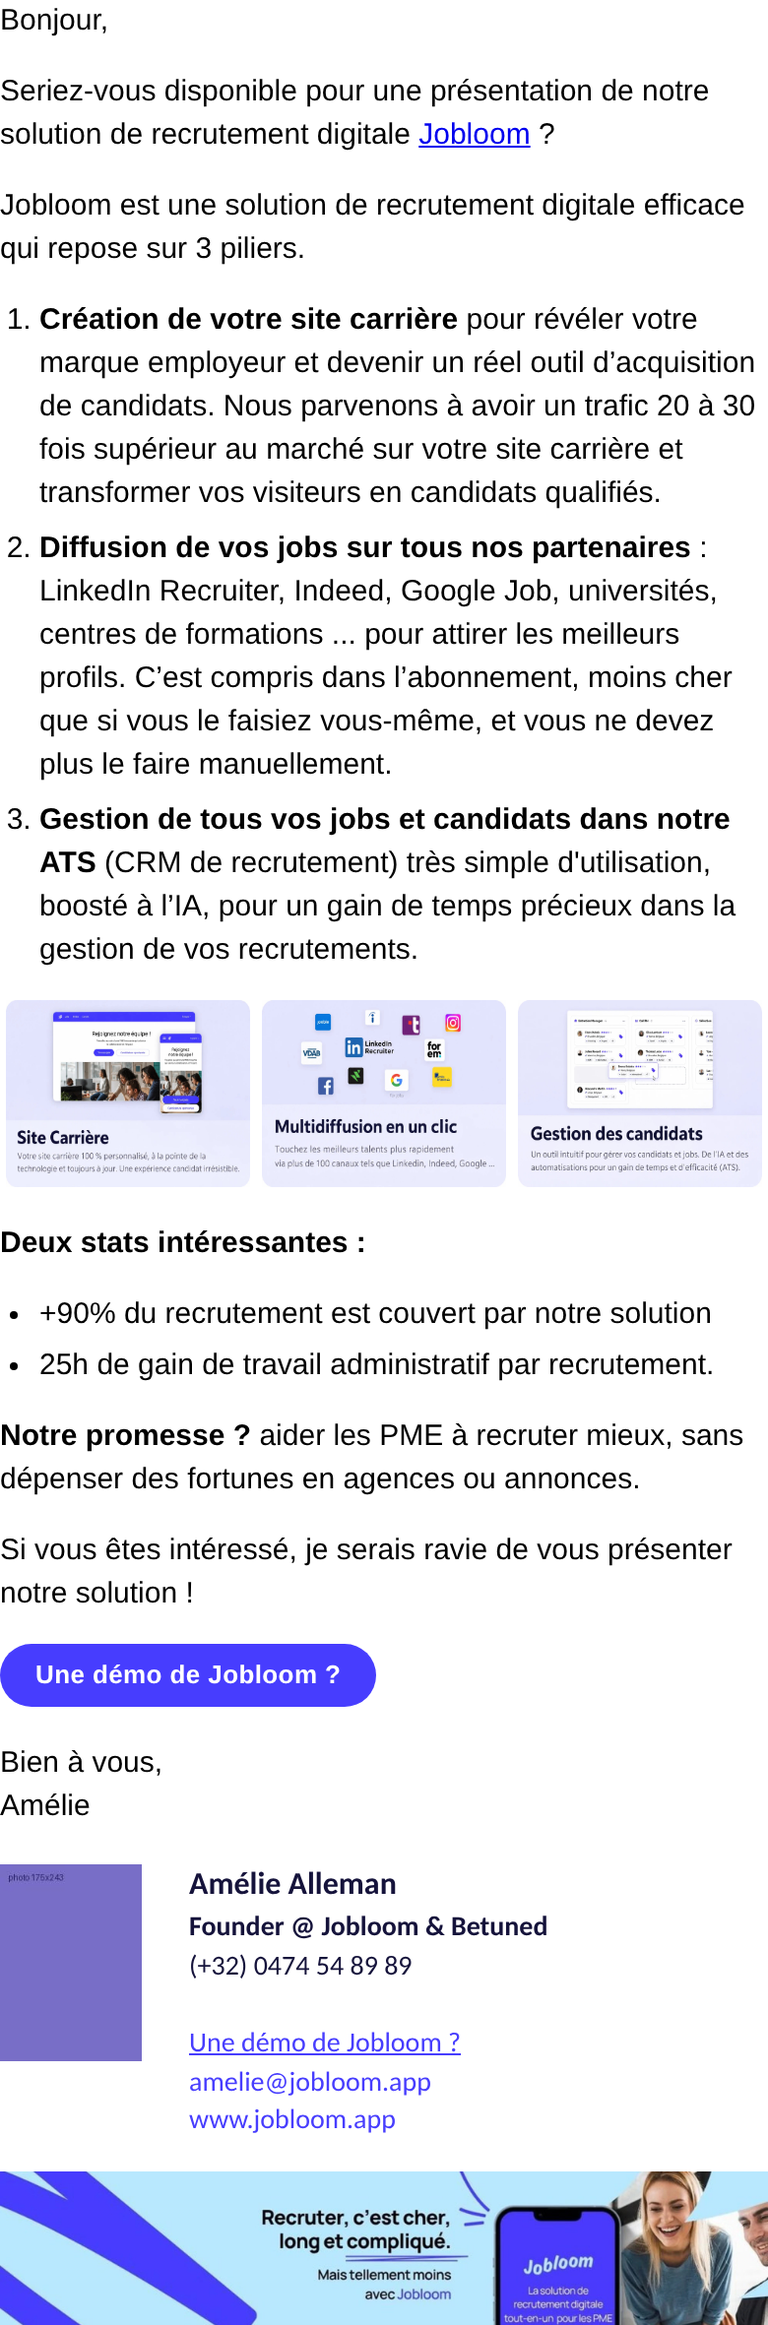
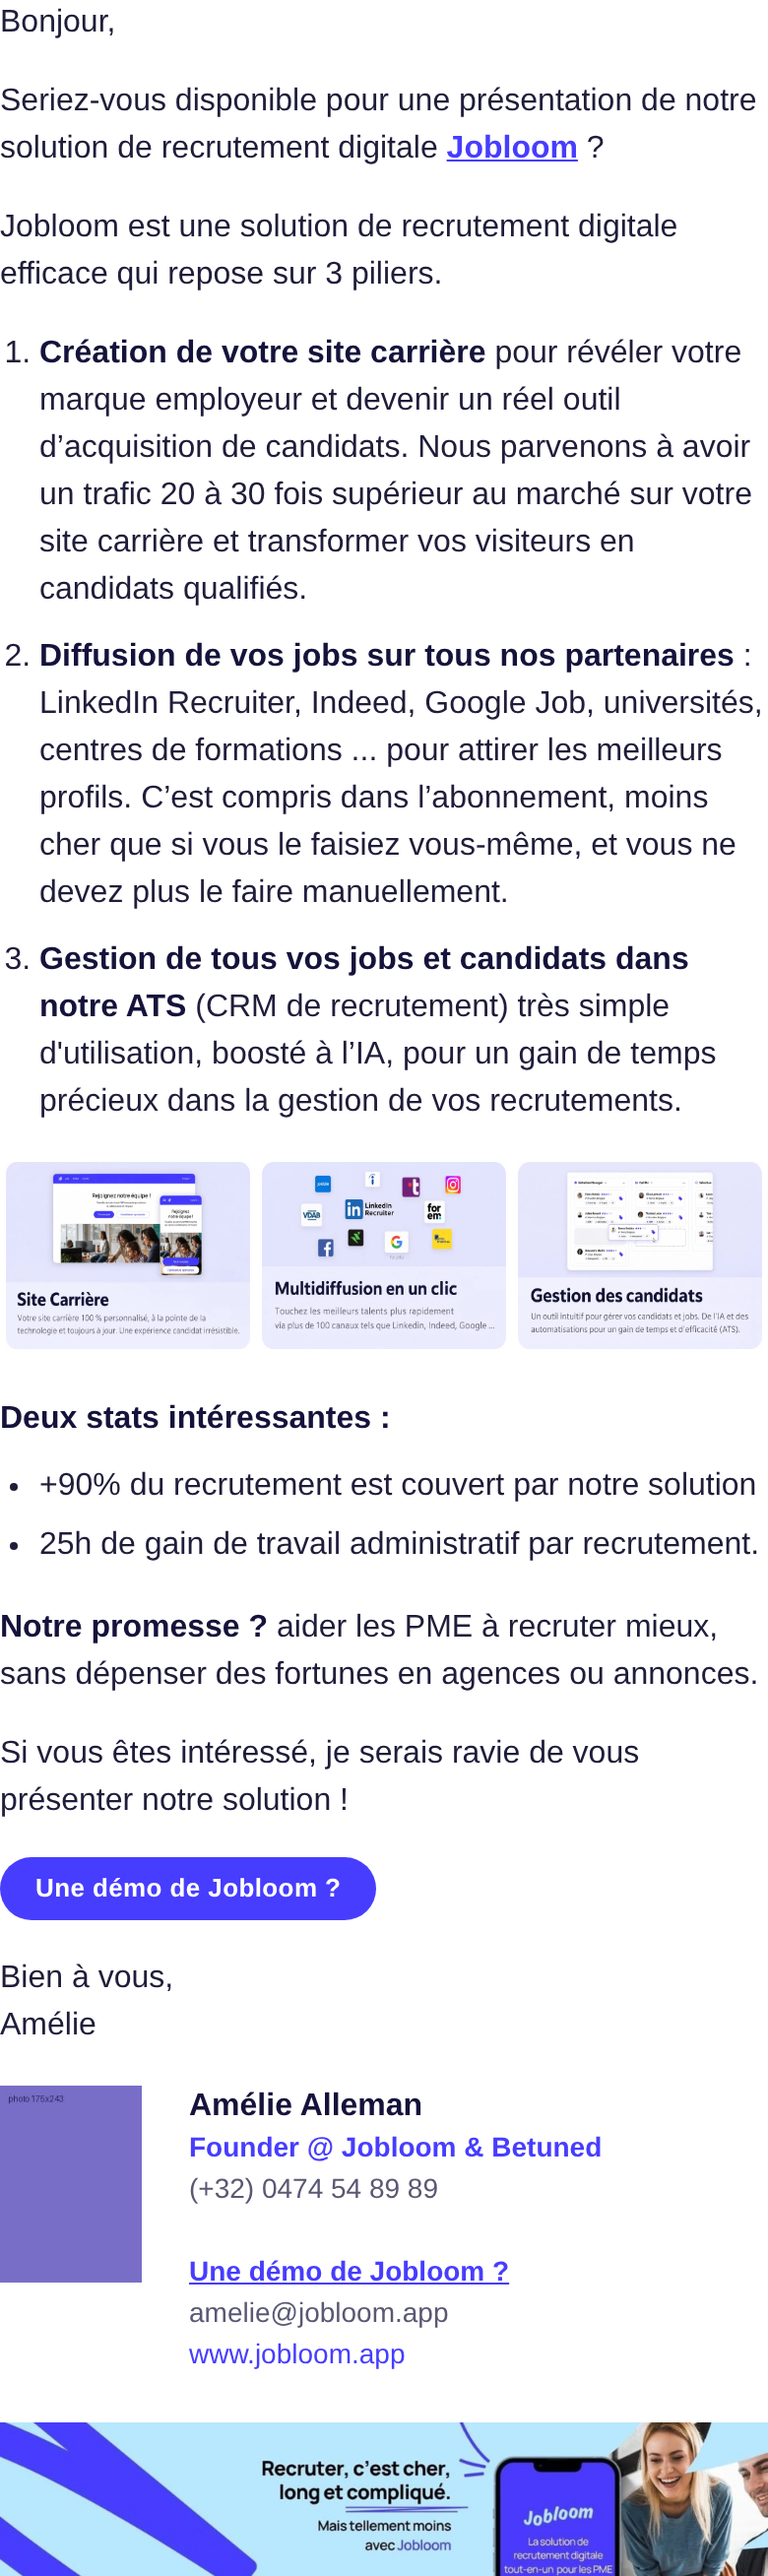
Email Amélie : typographie et espacements affinés
Claude-Session: https://claude.ai/code/session_01XTeiUwKp5X2MxE8FSKHjU9

Changed region(s): [[0.0, 0.0, 1.0, 0.8345], [0.0, 0.8036, 1.0, 1.0], [0.3077, 0.989, 0.3385, 1.0]]

diff --git a/email-livrable/email_1st_Amelie_final.html b/email-livrable/email_1st_Amelie_final.html
@@ -17,7 +17,7 @@ li{margin-left:0 !important;}</style>
 <style>
 @media only screen and (max-width:820px){
   .wrap{padding:0 !important;}
-  .txt{font-size:15px !important;line-height:22px !important;}
+  .txt{font-size:16px !important;line-height:24px !important;}
   .list{padding-left:20px !important;}
   .cards{width:100% !important;}
   .cardtd{padding:0 3px !important;}
@@ -31,24 +31,24 @@ li{margin-left:0 !important;}</style>
 <table role="presentation" cellpadding="0" cellspacing="0" border="0" width="100%" style="border-collapse:collapse;width:100%">
 <tr><td class="wrap" align="center" style="padding:0">
 <!--[if mso]><table role="presentation" width="800" cellpadding="0" cellspacing="0" border="0" align="center"><tr><td><![endif]-->
-<div class="txt" style="width:100%;max-width:1000px;margin:0 auto;text-align:left;font-family:Arial,Helvetica,sans-serif;font-size:14px;line-height:20px;mso-line-height-rule:exactly;color:#000000">
+<div class="txt" style="width:100%;max-width:1000px;margin:0 auto;text-align:left;font-family:Arial,Helvetica,sans-serif;font-size:15px;line-height:23px;mso-line-height-rule:exactly;color:#1F1D3A">
 
-<p style="margin:0 0 14px 0">Bonjour,</p>
-<p style="margin:0 0 14px 0">Seriez-vous disponible pour une présentation de notre solution de recrutement digitale <a href="https://www.jobloom.be/">Jobloom</a>&nbsp;?</p>
-<p style="margin:0 0 14px 0">Jobloom est une solution de recrutement digitale efficace qui repose sur 3 piliers.</p>
-<ol class="list" style="margin:0 0 14px 0;padding-left:28px">
-<li style="margin:0 0 6px 0"><b>Création de votre site carrière</b> pour révéler votre marque employeur et devenir un réel outil d’acquisition de candidats. Nous parvenons à avoir un trafic 20 à 30 fois supérieur au marché sur votre site carrière et transformer vos visiteurs en candidats qualifiés.</li>
-<li style="margin:0 0 6px 0"><b>Diffusion de vos jobs sur tous nos partenaires&nbsp;</b>: LinkedIn Recruiter, Indeed, Google Job, universités, centres de formations ... pour attirer les meilleurs profils. C’est compris dans l’abonnement, moins cher que si vous le faisiez vous-même, et vous ne devez plus le faire manuellement.</li>
-<li style="margin:0"><b>Gestion de tous vos jobs et candidats dans notre ATS</b> (CRM de recrutement) très simple d'utilisation, boosté à l’IA, pour un gain de temps précieux dans la gestion de vos recrutements.</li>
+<p style="margin:0 0 16px 0">Bonjour,</p>
+<p style="margin:0 0 16px 0">Seriez-vous disponible pour une présentation de notre solution de recrutement digitale <a href="https://www.jobloom.be/" style="color:#473DFE;font-weight:bold;text-decoration:underline">Jobloom</a>&nbsp;?</p>
+<p style="margin:0 0 16px 0">Jobloom est une solution de recrutement digitale efficace qui repose sur 3 piliers.</p>
+<ol class="list" style="margin:0 0 18px 0;padding-left:28px">
+<li style="margin:0 0 10px 0"><b style="color:#15133B">Création de votre site carrière</b> pour révéler votre marque employeur et devenir un réel outil d’acquisition de candidats. Nous parvenons à avoir un trafic 20 à 30 fois supérieur au marché sur votre site carrière et transformer vos visiteurs en candidats qualifiés.</li>
+<li style="margin:0 0 10px 0"><b style="color:#15133B">Diffusion de vos jobs sur tous nos partenaires&nbsp;</b>: LinkedIn Recruiter, Indeed, Google Job, universités, centres de formations ... pour attirer les meilleurs profils. C’est compris dans l’abonnement, moins cher que si vous le faisiez vous-même, et vous ne devez plus le faire manuellement.</li>
+<li style="margin:0"><b style="color:#15133B">Gestion de tous vos jobs et candidats dans notre ATS</b> (CRM de recrutement) très simple d'utilisation, boosté à l’IA, pour un gain de temps précieux dans la gestion de vos recrutements.</li>
 </ol>
-<table role="presentation" class="cards" cellpadding="0" cellspacing="0" border="0" width="92%" align="center" style="border-collapse:collapse;width:92%;margin:4px auto 18px auto"><tr><td class="cardtd" width="33%" valign="top" style="width:33.33%;padding:0 8px 0 0"><a href="https://www.jobloom.app/" style="text-decoration:none"><!--[if mso]><img src="https://jobloom-landing-pages-massimoharnisfeger-hues-projects.vercel.app/signature/pilier-1.jpg" width="258" height="172" alt="Site Carrière" style="display:block;width:258px;height:172px;border:0"><![endif]--><!--[if !mso]><!--><img src="https://jobloom-landing-pages-massimoharnisfeger-hues-projects.vercel.app/signature/pilier-1.jpg" width="1536" height="1024" alt="Site Carrière" style="display:block;width:100%;max-width:512px;height:auto;border:0"><!--<![endif]--></a></td><td class="cardtd" width="33%" valign="top" style="width:33.33%;padding:0 4px"><a href="https://www.jobloom.app/" style="text-decoration:none"><!--[if mso]><img src="https://jobloom-landing-pages-massimoharnisfeger-hues-projects.vercel.app/signature/pilier-2.jpg" width="258" height="172" alt="Multidiffusion en un clic" style="display:block;width:258px;height:172px;border:0"><![endif]--><!--[if !mso]><!--><img src="https://jobloom-landing-pages-massimoharnisfeger-hues-projects.vercel.app/signature/pilier-2.jpg" width="1536" height="1024" alt="Multidiffusion en un clic" style="display:block;width:100%;max-width:512px;height:auto;border:0"><!--<![endif]--></a></td><td class="cardtd" width="33%" valign="top" style="width:33.33%;padding:0 0 0 8px"><a href="https://www.jobloom.app/" style="text-decoration:none"><!--[if mso]><img src="https://jobloom-landing-pages-massimoharnisfeger-hues-projects.vercel.app/signature/pilier-3.jpg" width="258" height="172" alt="Gestion des candidats" style="display:block;width:258px;height:172px;border:0"><![endif]--><!--[if !mso]><!--><img src="https://jobloom-landing-pages-massimoharnisfeger-hues-projects.vercel.app/signature/pilier-3.jpg" width="1536" height="1024" alt="Gestion des candidats" style="display:block;width:100%;max-width:512px;height:auto;border:0"><!--<![endif]--></a></td></tr></table>
-<p style="margin:0 0 14px 0"><b>Deux stats intéressantes&nbsp;:</b></p>
-<ul class="list" style="margin:0 0 14px 0;padding-left:28px">
-<li style="margin:0 0 4px 0">+90% du recrutement est couvert par notre solution</li>
+<table role="presentation" class="cards" cellpadding="0" cellspacing="0" border="0" width="92%" align="center" style="border-collapse:collapse;width:92%;margin:8px auto 24px auto"><tr><td class="cardtd" width="33%" valign="top" style="width:33.33%;padding:0 8px 0 0"><a href="https://www.jobloom.app/" style="text-decoration:none"><!--[if mso]><img src="https://jobloom-landing-pages-massimoharnisfeger-hues-projects.vercel.app/signature/pilier-1.jpg" width="258" height="172" alt="Site Carrière" style="display:block;width:258px;height:172px;border:0"><![endif]--><!--[if !mso]><!--><img src="https://jobloom-landing-pages-massimoharnisfeger-hues-projects.vercel.app/signature/pilier-1.jpg" width="1536" height="1024" alt="Site Carrière" style="display:block;width:100%;max-width:512px;height:auto;border:0"><!--<![endif]--></a></td><td class="cardtd" width="33%" valign="top" style="width:33.33%;padding:0 4px"><a href="https://www.jobloom.app/" style="text-decoration:none"><!--[if mso]><img src="https://jobloom-landing-pages-massimoharnisfeger-hues-projects.vercel.app/signature/pilier-2.jpg" width="258" height="172" alt="Multidiffusion en un clic" style="display:block;width:258px;height:172px;border:0"><![endif]--><!--[if !mso]><!--><img src="https://jobloom-landing-pages-massimoharnisfeger-hues-projects.vercel.app/signature/pilier-2.jpg" width="1536" height="1024" alt="Multidiffusion en un clic" style="display:block;width:100%;max-width:512px;height:auto;border:0"><!--<![endif]--></a></td><td class="cardtd" width="33%" valign="top" style="width:33.33%;padding:0 0 0 8px"><a href="https://www.jobloom.app/" style="text-decoration:none"><!--[if mso]><img src="https://jobloom-landing-pages-massimoharnisfeger-hues-projects.vercel.app/signature/pilier-3.jpg" width="258" height="172" alt="Gestion des candidats" style="display:block;width:258px;height:172px;border:0"><![endif]--><!--[if !mso]><!--><img src="https://jobloom-landing-pages-massimoharnisfeger-hues-projects.vercel.app/signature/pilier-3.jpg" width="1536" height="1024" alt="Gestion des candidats" style="display:block;width:100%;max-width:512px;height:auto;border:0"><!--<![endif]--></a></td></tr></table>
+<p style="margin:0 0 10px 0;font-size:16px"><b style="color:#15133B">Deux stats intéressantes&nbsp;:</b></p>
+<ul class="list" style="margin:0 0 18px 0;padding-left:28px">
+<li style="margin:0 0 6px 0">+90% du recrutement est couvert par notre solution</li>
 <li style="margin:0">25h de gain de travail administratif par recrutement.</li>
 </ul>
-<p style="margin:0 0 14px 0"><b>Notre promesse&nbsp;?</b> aider les PME à recruter mieux, sans dépenser des fortunes en agences ou annonces.</p>
-<p style="margin:0 0 14px 0">Si vous êtes intéressé, je serais ravie de vous présenter notre solution&nbsp;!</p>
+<p style="margin:0 0 16px 0"><b style="color:#15133B">Notre promesse&nbsp;?</b> aider les PME à recruter mieux, sans dépenser des fortunes en agences ou annonces.</p>
+<p style="margin:0 0 16px 0">Si vous êtes intéressé, je serais ravie de vous présenter notre solution&nbsp;!</p>
 <!--[if mso]>
 <table role="presentation" cellpadding="0" cellspacing="0" border="0"><tr><td style="padding:0 0 18px 0">
 <v:roundrect xmlns:v="urn:schemas-microsoft-com:vml" xmlns:w="urn:schemas-microsoft-com:office:word" href="https://calendly.com/amelie-betuned" style="height:32px;v-text-anchor:middle;width:180px" arcsize="50%" stroke="f" fillcolor="#473DFE"><w:anchorlock/><center style="color:#FFFFFF;font-family:Arial,Helvetica,sans-serif;font-size:13px;font-weight:bold">Une démo de Jobloom ?</center></v:roundrect>
@@ -61,20 +61,20 @@ li{margin-left:0 !important;}</style>
 <!--<![endif]-->
 <p style="margin:0 0 18px 0">Bien à vous,<br>Amélie</p>
 
-<table role="presentation" cellpadding="0" cellspacing="0" border="0" style="border-collapse:collapse;font-family:Calibri,Arial,sans-serif;font-size:14px;line-height:1.4;color:#15133B">
+<table role="presentation" cellpadding="0" cellspacing="0" border="0" style="border-collapse:collapse;font-family:Arial,Helvetica,sans-serif;font-size:14px;line-height:21px;mso-line-height-rule:exactly;color:#5A5873">
 <tr>
 <td class="sig-photo" valign="top" width="116" style="width:116px;padding:0 16px 0 0"><img src="https://jobloom-landing-pages-massimoharnisfeger-hues-projects.vercel.app/signature/amelie-alleman.jpg" width="100" height="139" alt="Amélie Alleman" class="sig-img" style="display:block;width:100px;height:139px;border:0"></td>
 <td valign="top" style="padding:0">
 <b style="font-size:16px;color:#15133B">Amélie Alleman</b><br>
-<b style="color:#15133B">Founder @ Jobloom &amp; Betuned</b><br>
-<span style="color:#15133B">(+32) 0474 54 89 89</span><br><br>
-<a href="https://calendly.com/amelie-betuned" style="color:#473DFE;text-decoration:underline">Une démo de Jobloom ?</a><br>
-<a href="mailto:amelie@jobloom.app" style="color:#473DFE;text-decoration:none">amelie@jobloom.app</a><br>
+<span style="color:#473DFE;font-weight:bold">Founder @ Jobloom &amp; Betuned</span><br>
+<span style="color:#5A5873">(+32) 0474 54 89 89</span><br><br>
+<a href="https://calendly.com/amelie-betuned" style="color:#473DFE;font-weight:bold;text-decoration:underline">Une démo de Jobloom ?</a><br>
+<a href="mailto:amelie@jobloom.app" style="color:#5A5873;text-decoration:none">amelie@jobloom.app</a><br>
 <a href="https://www.jobloom.app" style="color:#473DFE;text-decoration:none">www.jobloom.app</a>
 </td>
 </tr>
 </table>
-<table role="presentation" cellpadding="0" cellspacing="0" border="0" width="100%" style="border-collapse:collapse;width:100%;margin:16px 0 0 0"><tr><td align="center" style="padding:0"><a href="https://www.jobloom.app/agenda" style="text-decoration:none">
+<table role="presentation" cellpadding="0" cellspacing="0" border="0" width="100%" style="border-collapse:collapse;width:100%;margin:24px 0 0 0"><tr><td align="center" style="padding:0"><a href="https://www.jobloom.app/agenda" style="text-decoration:none">
 <!--[if mso]><img src="https://jobloom-landing-pages-massimoharnisfeger-hues-projects.vercel.app/signature/banniere-jobloom.jpg" width="800" height="160" alt="Recruter, c'est cher, long et compliqué. Mais tellement moins avec Jobloom" style="display:block;width:800px;height:160px;border:0"><![endif]-->
 <!--[if !mso]><!--><img src="https://jobloom-landing-pages-massimoharnisfeger-hues-projects.vercel.app/signature/banniere-jobloom.jpg" width="2000" height="400" alt="Recruter, c'est cher, long et compliqué. Mais tellement moins avec Jobloom" style="display:block;width:100%;height:auto;border:0;margin:0 auto"><!--<![endif]-->
 </a></td></tr></table>
